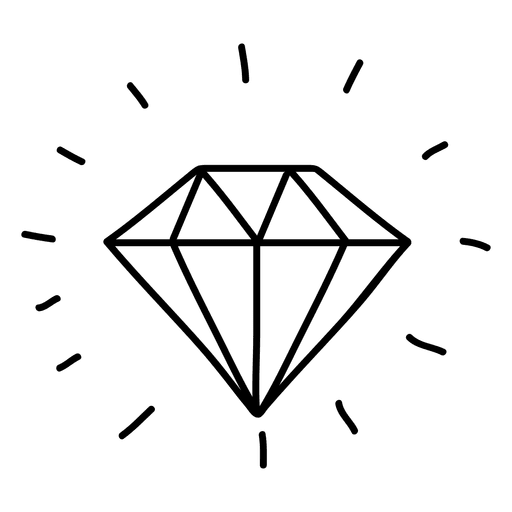
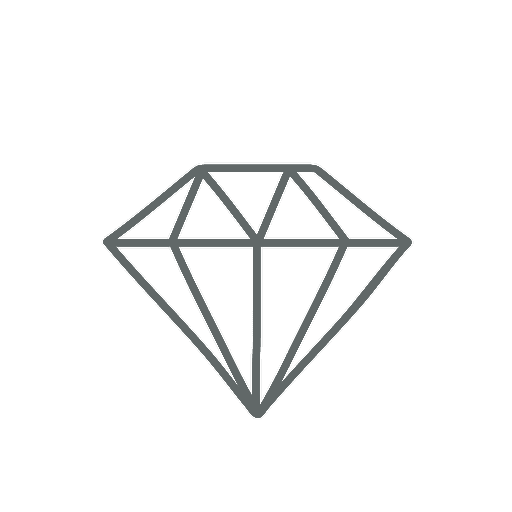
fixes

diff --git a/main.css b/main.css
@@ -34,13 +34,13 @@ body{
   height: 100%;
   width: 100%;
   display: flex;
-  align-items: center;
+  /* align-items: center; */
   justify-content: center;
 }
 
 .container {
     width: 1200px;
-    height: 675px;
+    height: 100%;
     /* margin: 0 auto; */
     display: block;
     min-width: 360px;
@@ -105,7 +105,6 @@ body{
 
   .social-networks__icon {
     width: 11%;
-    max-height: 20px;
   }
 
   .main-page{}
@@ -187,17 +186,21 @@ body{
     margin-bottom: 8%;
   }
   .main-page__desc {
-    background-image: url("images/main.jpg");
+    background-image: url("images/123.jpeg");
     background-repeat: no-repeat;
-    background-size: cover;
-    background-position: top center;
+    background-size: 150%;
+    background-position: 10% 65%;
     flex: 0 0 auto;
     width: 65%;
+    display: flex;
+    align-items: center;
   }
 
   .main-page__desc-inner{
     width: 90%;
-    margin-left: 10%;
+    margin-left: 7%;
+    display: flex;
+    flex-direction: column;
   }
 
   .main-page__desc-img {
@@ -254,6 +257,7 @@ body{
     display: flex;
   }
   .about__main-img-icon {
+    object-fit:cover;
     width: 100%;
     height: 100%;
   }
@@ -296,10 +300,11 @@ body{
 
   .about__desc-specific {
     height: 100%;
-    background-image: url("images/diamondblack.png");
+    background-image: url("images/diab.png");
+    background-color: black;
     background-repeat: no-repeat;
-    background-size: cover;
-    background-position: top center;
+    background-size: 70%;
+    background-position:  center;
     display: flex;
     align-items: center;
     justify-content: center;
@@ -387,11 +392,13 @@ body{
   .sellers__content-item:hover .sellers__content-item-hover-info{
     display: block;
     padding-top: 23%;
+    padding-left: 5%;
+    padding-right: 5%;
     text-align: center;
-    background-image: url("images/diamondblack.png");
+    background-image: url("images/diab.png");
     background-repeat: no-repeat;
     background-position-x: center;
-    background-size: 30%;
+    background-size: 20%;
     background-color: black;
   }
   .sellers__text{
@@ -582,6 +589,7 @@ body{
     width: 19.2%;
   }
   .parfum__icon {
+    object-fit:cover;
     height: 100%;
     width: 100%;
   }
@@ -593,7 +601,7 @@ body{
   }
   .footer__inner {
     height: 100%;
-    background-color: #131313;
+    background-color: black;
     display: flex;
     justify-content: space-between;
   }
@@ -636,7 +644,7 @@ body{
     height:30%;
   }
   .footer__feedback-input {
-    background-color: #131313;
+    background-color: black;
     color: white;
     padding-top: 2px;
     padding-left: 5px;
@@ -721,7 +729,7 @@ body{
 @media screen and (min-width: 1800px){
   .container {
     width: 85vw;
-    height: 77vh;
+    height: 100%;
   }
 
   .header--height{
@@ -746,7 +754,7 @@ body{
 @media screen and (min-width: 1400px) and (max-width: 1800px){
   .container {
     width: 85vw;
-    height: 77vh;
+    height: 100%;
   }
 
   .header--height{
@@ -766,7 +774,7 @@ body{
 @media screen and (min-width: 991px) and (max-width: 1200px) {
   .container {
     width: 85vw;
-    height: 77vh;
+    height: 100%;
   }
 
   .header--height{
@@ -850,7 +858,7 @@ body{
   .about__desc-specific {
     height: 99%;
     width: 100%;
-    background-image: url("images/diamondblack.png");
+    background-image: url("images/diab.png");
     background-repeat: no-repeat;
     background-size: 50% auto;
     background-color: black;
@@ -927,7 +935,7 @@ body{
     display: block;
     padding-top: 23%;
     text-align: center;
-    background-image: url("images/diamondblack.png");
+    background-image: url("images/diab.png");
     background-repeat: no-repeat;
     background-position-x: center;
     background-size: 30%;
